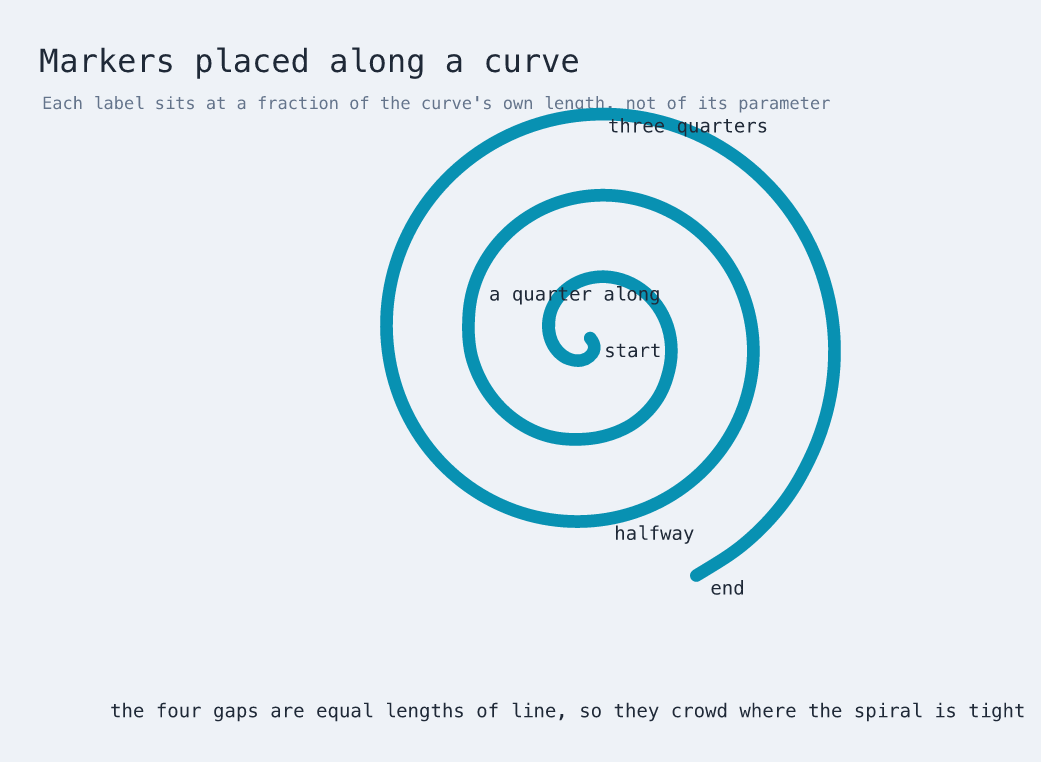
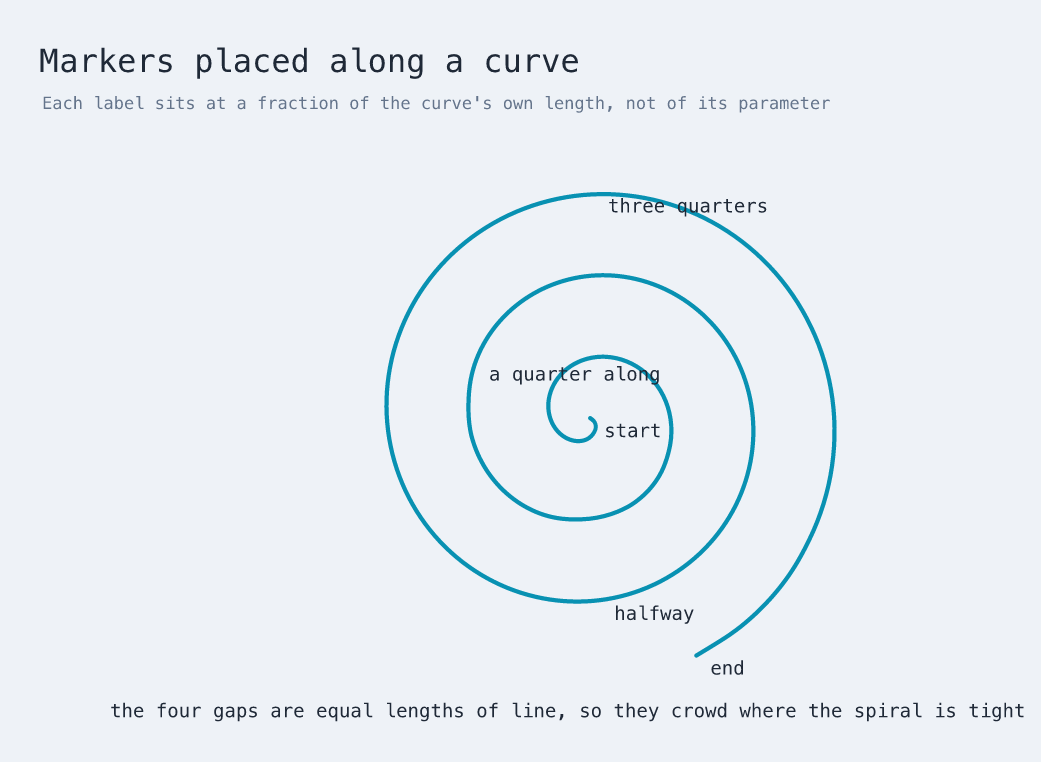
docs: fix four figures that read as mistakes, and show the axes
All four were found by looking at the rendered pictures, which the
previous audit did not do: it checked advisories and aspect ratios and
passed everything.

The spiral's top label overlapped the subtitle, because the figure left
no headroom above a curve whose labels follow it. Moved the origin down.

The count example stepped its boxes up to the right by 14px a time,
which reads as a wobble rather than a decision, and labelled each with a
bare dot that rendered as a speck. The boxes now carry their own index,
which is both visible and the thing the example is about.

The signal-building curves sat outside the frame, and the last stage
already overflowed it horizontally: the diagram frame is a fixed canvas
width, not a fit to content. Narrowed the stages to fit and moved each
curve inside the stage that produces it, which is what the subtitle
claimed all along.

The labelled-axes figure existed but only in the README. It belongs in
the guide, with the two limits worth knowing first: a tick can show its
index but not a value computed from it, and only a closed curve fills.

diff --git a/docs/tour.md b/docs/tour.md
@@ -784,6 +784,46 @@ sampling near it is a matter of luck. The compiler finds it because dividing by
 a range that contains zero produces an unbounded range: the pole is a
 consequence of the arithmetic rather than something to be detected.
 
+### Giving a curve a reference frame
+
+There is no `axes` construct. A frame is built from the pieces already described:
+a stroke for each axis, a repeated stroke for the ticks, and a repeated text for
+the labels, each placed from its own index.
+
+![Two curves on labelled axes, one filled and one open](images/labelled-axes.png)
+
+```xdraw
+diagram "Axes" {
+  let x0 = 200
+  let y0 = 500
+  let unit = 88
+
+  xaxis: freedraw { at = (x0, y0); points ((-26, 0), (566, 0)); stroke-width 0.4 }
+
+  xtick: freedraw {
+    count 6
+    at = (x0 + unit * xtick.index, y0)
+    points ((0, 0), (0, 8))
+    stroke-width 0.4
+  }
+  xlabel: text "${index}" {
+    count 6
+    at = (x0 + unit * xlabel.index - 4, y0 + 18)
+    font-size 15
+  }
+}
+```
+
+Because the frame is arithmetic over `unit`, changing that one binding rescales
+the whole figure. Full source, with both axes and two curves, in
+[`examples/labelled-axes.xdraw`](../examples/labelled-axes.xdraw).
+
+Two limits are worth knowing before building one. A label can show its index but
+not a value computed from it, so ticks read `0` to `5` rather than `-3` to `3` or
+`pi/4`; interpolating an expression into a string is not yet possible. And a
+`background` fills a curve only when the stroke closes, within 8 units, so the
+region under an open curve cannot be shaded.
+
 ### Curves from a template
 
 A plot is described when the document is read and drawn afterwards, so a
